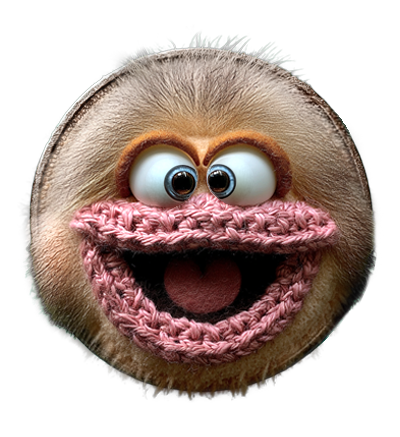
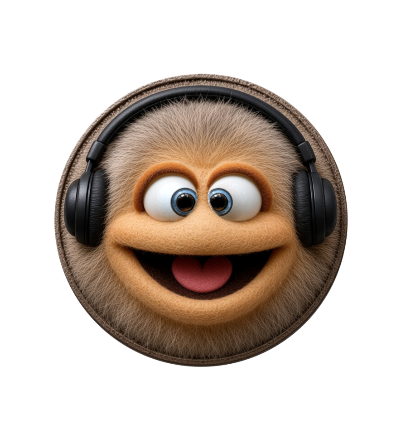
New music button face with headphones

diff --git a/index.html b/index.html
@@ -12,6 +12,7 @@
   <link rel="preload" as="image" href="img/youtube_hover.png" />
   <link rel="preload" as="image" href="img/tiktok_hover.png" />
   <link rel="preload" as="image" href="img/donate_hover.png" />
+  <link rel="preload" as="image" href="img/music.png" />
   <link rel="preload" as="image" href="img/music_hover.png" />
   <link rel="stylesheet" href="https://cdnjs.cloudflare.com/ajax/libs/font-awesome/6.5.0/css/all.min.css" integrity="sha512-SnH5WK+bZxgPHs44uWIX+LLJAJ9/2PkPKZ5QiAj6Ta86w+fsb2TkcmfRyVX3pBnMFcV7oQPJkl9QevSCWr3W6A==" crossorigin="anonymous" referrerpolicy="no-referrer" />
   <style>
@@ -165,7 +166,7 @@
     .card-youtube::before  { background-image: url('https://i.imgur.com/4Cytmfw.png'); }
     .card-tiktok::before   { background-image: url('https://i.imgur.com/OQwil21.png'); }
     .card-donate::before   { background-image: url('https://i.imgur.com/A8WLDQ5.png'); }
-    .card-puppets::before  { background-image: url('https://i.imgur.com/kMwglme.png'); }
+    .card-puppets::before  { background-image: url('img/music.png'); }
 
     /* Facebook hover only */
     .card-facebook:hover::before {
